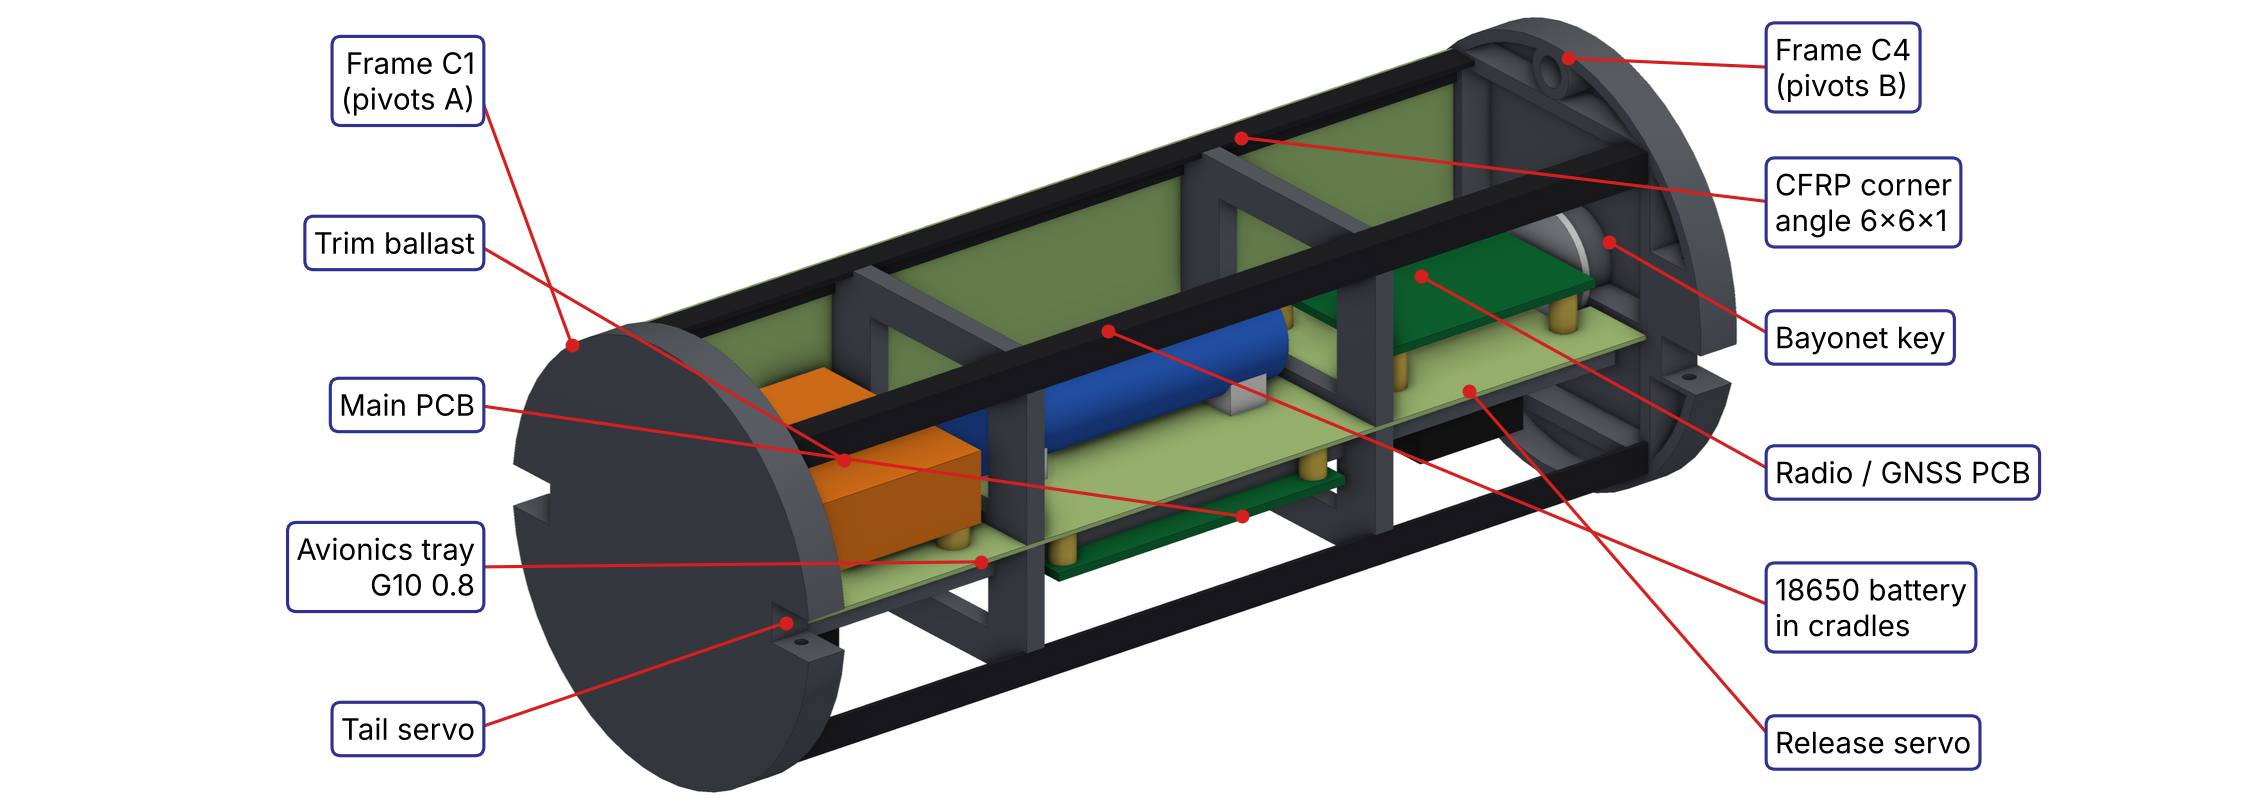
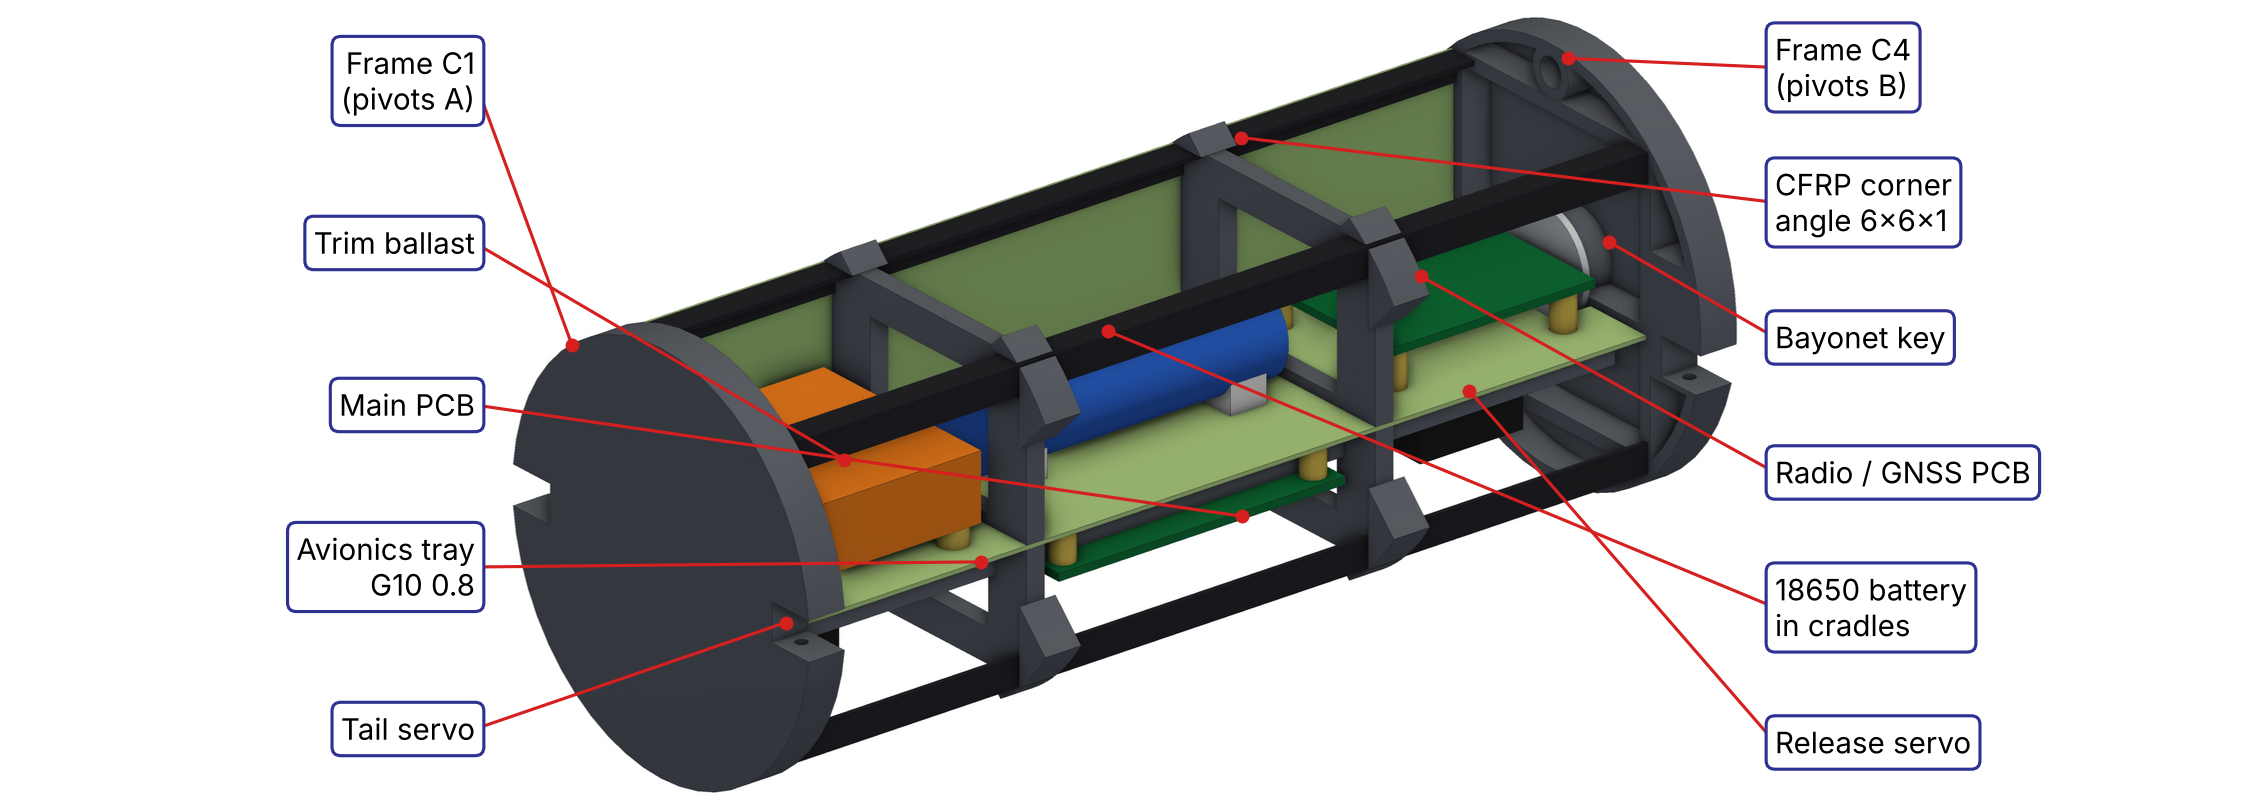
Rev C (in progress): guide pads also at the corners of C2 and C3, on PA12-CF shoes
- the pads tie the CFRP frame to the tube so both bend together (aim: lateral mode above the sander band)
- APOYO selectable by environment: standing on the sander (fixed base) or resting in the bay (flight)
- mass budget and CAD figures regenerated; still closes at 500 g (ballast 11 -> 4 g)
- verification slides prepared for both support conditions; FE results pending

Claude-Session: https://claude.ai/code/session_01Qud1Fo9tgGG4f1yKvprDxr

diff --git a/cansat_pdr/src/laminas_pdr.py b/cansat_pdr/src/laminas_pdr.py
@@ -52,7 +52,8 @@ MAS = j("masas.json")
 PAR = j("paracaidas.json")
 PL = j("planeo.json")
 AE = j("aero.json")
-R = j("resultados_fea.json")
+R = j("resultados_fea.json")                     # CanSat parado y fijo en la base (ensayo de la lijadora)
+RV = j("resultados_fea_vuelo.json") if os.path.exists(os.path.join(FEA, "resultados_fea_vuelo.json")) else None  # vuelo
 
 
 def n(x, d=1):
@@ -398,7 +399,8 @@ EN = {  # nombres en ingles de los renglones del presupuesto de masa
     "Llave de bayoneta": ("Bayonet key + bearing plate (A2-70)", "C"),
     "Arandela de la llave": ("Key washer on C4 (Al 7075, Ø22)", "C"),
     "Aislador elastomerico": ("Key elastomer isolator", "C"),
-    "Patines de C1": ("C1 guide pads (elastomer + PTFE)", "C"),
+    "Patines de C1": ("Guide pads C1–C3 (elastomer + PTFE)", "C"),
+    "Zapatas de patin": ("Pad shoes on C2 and C3 (PA12-CF)", "S"),
     "Manguito elastomerico del centrador": ("Tail centring sleeve (elastomer)", "C"),
     "Tubo d90": ("Container tube Ø90 × 242, 2 mm wall (LW-ASA)", "S"),
     "Tapa nervada": ("Ribbed container cap (PA12-CF)", "S"),
@@ -523,7 +525,7 @@ def L22_lanzamiento(sl):
         "**Tail boom:** stowed on the top cover, guided in C2–C4.",
         f"**Parachute:** packed above the cap ({P.CT_X[1] - P.CT_TOP[0] - P.CT_CAP_H:g} mm space).",
         "**Retention:** bayonet key through the cap; geometric lock (M2).",
-        "**Guidance:** C1 on four PTFE-faced pads; C4 collar centred in the cap.",
+        "**Guidance:** C1, C2 and C3 on four PTFE-faced pads each; C4 collar centred in the cap.",
         "**S7:** smooth outer wall, 1 mm radial clearance inside.",
     ], sz=11.5, spc=350)
 
@@ -734,7 +736,8 @@ def L50_mecanico(sl):
     y = Y0 + I(0.34) + 9 * I(0.305) + I(0.17)
     tarjeta(sl, x, y, X1 - x, Y1 - y, None, [
         f"**Total 500 g:** container {m_cont:.0f} g + payload {m_plan:.0f} g (including {lastre:.0f} g of trim ballast).",
-        "**Load path:** cap → bayonet key → C4 → corner angles and panels; the tube carries the CanSat to the rocket support.",
+        "**Load path:** cap → bayonet key → C4 → corner angles and panels. Laterally, pads at C1, C2 and C3 tie the "
+        "CFRP frame to the tube, so both bend as one piece.",
         "**One actuator** releases the glider; the wing opens by itself.",
     ], sz=11.5, spc=300)
 
@@ -814,8 +817,10 @@ def L54_seleccion_mec(sl):
          "S6 sets 2 mm, so density decides (80 g); withstands the 60 °C thermal test"],
         ["Bulkheads, cap", "PLA+; PETG; PA12-CF", "PA12-CF, 100 % infill", "Best stiffness and strength per gram; 150 °C"],
         ["Joints", "Screws; epoxy; both", "Epoxy + M2/M2.5 with inserts", "S8; screwed parts can be removed"],
-    ], sz=10.5, sz_cab=11, alto=I(0.5), alto_cab=I(0.36), alin=["l"] * 4, ml=80000)
-    y = Y0 + I(0.36) + 6 * I(0.5) + I(0.17)
+        ["Lateral guidance", "Pads at C1 + collar at C4; pads also at C2 and C3", "Pads at C1, C2, C3 + C4 collar",
+         "Ties the CFRP frame to the tube: lateral mode above the sander band (vibration test)"],
+    ], sz=10.5, sz_cab=11, alto=I(0.46), alto_cab=I(0.36), alin=["l"] * 4, ml=80000)
+    y = Y0 + I(0.36) + 7 * I(0.46) + I(0.17)
     tarjeta(sl, X0, y, W_UTIL, Y1 - y, None, [
         "**Why LW-ASA and not LW-PLA:** the thermal test holds the CanSat at 60 °C for 2 h; LW-PLA softens near 55 °C. "
         "Printed-material strengths are datasheet values and will be confirmed with our own coupons before CDR.",
@@ -830,9 +835,9 @@ GRUPOS = [("Contenedor: tubo", "Container tube (LW-ASA)"), ("Contenedor: tapa", 
 EJES = ("x", "y", "z")
 
 
-def peor(caso, g):
+def peor(caso, g, RR=None):
     best = None
-    blk = R.get(caso)
+    blk = (R if RR is None else RR).get(caso)
     if blk is None:
         return None
     ejes = [None] if "margenes" in blk else list(EJES)
@@ -845,8 +850,8 @@ def peor(caso, g):
     return best
 
 
-def celda(caso, g):
-    p = peor(caso, g)
+def celda(caso, g, RR=None):
+    p = peor(caso, g, RR)
     if p is None:
         return "—"
     s = ms(p[0])
@@ -859,18 +864,20 @@ def L_fem1(sl):
     fig = "fea_modos_en.png" if os.path.exists(os.path.join(FIGS, "fea_modos_en.png")) else "fea_modos.png"
     panel(sl, X0, Y0, wi, Y1 - Y0, [(fig, 1)], "First four mode shapes of the complete CanSat (cantilever from the rocket support)")
     x = X0 + wi + GAP
-    tabla(sl, x, Y0, X1 - x, [1.1, 3.0, 1.4], ["Case", "Load", "Requirement"], [
+    tabla(sl, x, Y0, X1 - x, [1.25, 3.05, 1.2], ["Case", "Load and support", "Requirement"], [
         ["CE-15", "Quasi-static 15 G, x, y, z", "S4"],
-        ["RF-15", "Sine sweep 15 G, 5–1000 Hz", "S4"],
-        ["Sander", "Orbital sander up to 233 Hz, 29 G", "Vibration test"],
+        ["Sander test", "Standing, fixed at the base: orbital sander up to 233 Hz, 29 G, start/stop", "Vibration test"],
+        ["Flight 15 G", "Sine sweep 15 G, 5–1000 Hz; resting in the bay, wall guides the top", "S4"],
         ["CH-30", "Half-sine 30 G, 1–20 ms, x, y, z", "S5, drop test"],
         ["PA-30", "Parachute snatch 30 G × 1.8", "S5, C3"],
-    ], sz=10.5, sz_cab=11, alto=I(0.36), alto_cab=I(0.34), alin=["l", "l", "l"], ml=80000)
-    y = Y0 + I(0.34) + 5 * I(0.36) + I(0.17)
+    ], sz=10.5, sz_cab=11, alto=I(0.44), alto_cab=I(0.34), alin=["l", "l", "l"], ml=80000)
+    y = Y0 + I(0.34) + 5 * I(0.44) + I(0.17)
+    fv = RV["freq"] if RV else None
     tarjeta(sl, x, y, X1 - x, Y1 - y, "Finite element model (CalculiX)", [
-        f"{R['elementos'] / 1000:.0f} k quadratic tetrahedra, {R['nodos'] / 1000:.0f} k nodes, 32 parts, {R['masa_g']:.0f} g.",
-        "Supported only at the base, as in the rocket; nothing restrains the top.",
-        f"Modes: {f[0]:.0f} Hz and {f[1]:.0f} Hz lateral (72 % of the mass each), {f[2]:.0f} Hz axial (79 %).",
+        f"{R['elementos'] / 1000:.0f} k quadratic tetrahedra, {R['nodos'] / 1000:.0f} k nodes, {R['masa_g']:.0f} g.",
+        f"Standing on the sander (fixed base): first modes {f[0]:.0f} and {f[1]:.0f} Hz, above the 233 Hz of the sander."
+        if f[0] > 240 else f"Standing on the sander (fixed base): first modes {f[0]:.0f} and {f[1]:.0f} Hz.",
+        (f"Resting in the bay (top guided by the wall): first mode {fv[0]:.0f} Hz." if fv else ""),
         "Checked: modal vs. static stress field (< 1 %), mesh, hand calculations of joints.",
     ], sz=10.5, spc=200)
 
@@ -909,15 +916,24 @@ def L_fem_mapas(sl):
     ], sz=11, spc=300)
 
 
+def casos_fem():
+    c = [("cuasi15", "CE-15", R)]
+    if "lijadora" in R:
+        c.append(("lijadora", "Sander test", R))
+    if RV is not None:
+        c.append(("armonico", "Flight 15 G", RV))
+    c += [("choque", "CH-30", R), ("paracaidas", "PA-30", R)]
+    return c
+
+
 def L_fem2(sl):
-    casos = [("cuasi15", "CE-15"), ("armonico", "RF-15")] + ([("lijadora", "Sander")] if "lijadora" in R else []) + \
-            [("choque", "CH-30"), ("paracaidas", "PA-30")]
-    filas = [[nom] + [celda(c, g) for c, _ in casos] for g, nom in GRUPOS]
+    casos = casos_fem()
+    filas = [[nom] + [celda(c, g, RR) for c, _, RR in casos] for g, nom in GRUPOS]
     nc = len(casos)
-    tabla(sl, X0, Y0, W_UTIL, [3.4] + [1.25] * nc, ["Part group (material)"] + [c for _, c in casos], filas,
+    tabla(sl, X0, Y0, W_UTIL, [3.4] + [1.25] * nc, ["Part group (material)"] + [c for _, c, _ in casos], filas,
           sz=11, sz_cab=11.5, alto=I(0.33), alto_cab=I(0.36), alin=["l"] + ["c"] * nc)
     y = Y0 + I(0.36) + len(GRUPOS) * I(0.33) + I(0.17)
-    todos = [(peor(c, g)[0], g, c) for g, _ in GRUPOS for c, _ in casos if peor(c, g)]
+    todos = [(peor(c, g, RR)[0], g, nom) for g, _ in GRUPOS for c, nom, RR in casos if peor(c, g, RR)]
     neg = [t for t in todos if t[0] < 0]
     mn = min(todos)
     w2 = (W_UTIL - GAP) // 2
@@ -927,15 +943,11 @@ def L_fem2(sl):
         "Resonant cases depend on the damping assumed: to be measured in a sine test.",
     ], sz=11, spc=250)
     nombres = dict(GRUPOS)
-    casos_n = dict(casos)
     if not neg:
-        res = [f"All margins are positive. Minimum {ms(mn[0])}: {nombres[mn[1]]}, {casos_n[mn[2]]}."]
+        res = [f"**All margins are positive.** Minimum {ms(mn[0])}: {nombres[mn[1]]}, {mn[2]}.",
+               "Rev. C: pads at C2 and C3 tie the CFRP frame to the tube, so the lateral mode moves above the sander band."]
     else:
-        tubo = [m for m, g, c in neg if g == "Contenedor: tubo"]
-        res = [f"[[{ROJO}:Open item:]] the tube fails at the {R['freq'][0]:.0f} Hz lateral mode (RF-15 and sander). "
-               "Panels and bulkheads are negative only at single-element peaks (positive at the 99.9th percentile).",
-               "Action before CDR: centre the top of the CanSat in the Ø100 bay (foam ring) or stiffen the tube; re-run."] if tubo else \
-              [f"{len(neg)} negative: " + "; ".join(f"{nombres[g]} in {casos_n[c]} ({ms(m)})" for m, g, c in neg[:3]) + "."]
+        res = [f"{len(neg)} negative: " + "; ".join(f"{nombres[g]} in {c} ({ms(m)})" for m, g, c in sorted(neg)[:3]) + "."]
     tarjeta(sl, X0 + w2 + GAP, y, w2, Y1 - y, "Result", res, sz=11, spc=250)
 
 

diff --git a/cansat_pdr/src/cad.py b/cansat_pdr/src/cad.py
@@ -147,6 +147,17 @@ def cuna_ala(x0, x1, side):
     return box(x0, x1, ya, yb, -10.0, 6.0).intersect(disc(x0, x1))
 
 
+def zapata(x0, x1, ang):
+    """Zapata de esquina (rev. C): lleva el patin de C2/C3; pegada sobre paneles, tapa y angular de la arista."""
+    sh = sector(x0, x1, P.ZAP_R0, P.R_C1, ang, P.PAD_ANG)
+    return sh.cut(envolvente_caja(x0, x1)).clean()
+
+
+def envolvente_caja(x0, x1):
+    """Caja del planeador con paneles, tapa superior y cubierta inferior (lo que no pueden invadir zapatas ni patines)."""
+    return box(x0 - 1, x1 + 1, -P.Y_OUT, P.Y_OUT, -P.Z_BOX - 0.25, P.Z_BOX + P.T_COVER)
+
+
 def guia_botalon(x0, x1):
     zt = P.Z_BOX + P.T_COVER
     g = box(x0, x1, -6.5, 6.5, zt, 45.0).intersect(disc(x0, x1))
@@ -185,6 +196,10 @@ def piezas_estructura(fe=False):
         yc = sy * P.RIEL_Y
         add(f"R{k} riel longitudinal", box(xa, xbb, yc - P.RIEL_W / 2, yc + P.RIEL_W / 2, P.Z_TRAY[0] - P.RIEL_H, P.Z_TRAY[0]),
             "PA12CF", GRIS)
+    if P.PAD_MEDIAS:
+        for k, x in ((2, P.X_C2), (3, P.X_C3)):
+            for ang in P.PAD_POS:
+                add(f"Zapata C{k} {int(ang)}", zapata(x[0] - P.ZAP_EXT, x[1] + P.ZAP_EXT, ang), "PA12CF", GRIS)
     for k, x in ((2, P.X_C2), (3, P.X_C3)):
         add(f"Guia de botalon C{k}", guia_botalon(*x), "PA12CF", GRIS)
         for s, tag in ((1, "der."), (-1, "izq.")):
@@ -365,9 +380,15 @@ def piezas_contenedor(fe=False):
 
 def piezas_patines(fe=False):
     out = []
-    for xr, tag in ((P.X_C1, "C1"),):          # rev. B: la cola se centra en la tapa (sin patines en C4)
+    estaciones = [(P.X_C1, "C1")]               # rev. B: la cola se centra en la tapa (sin patines en C4)
+    if P.PAD_MEDIAS:                            # rev. C: tambien en C2 y C3
+        estaciones += [((P.X_C2[0] - P.ZAP_EXT, P.X_C2[1] + P.ZAP_EXT), "C2"),
+                       ((P.X_C3[0] - P.ZAP_EXT, P.X_C3[1] + P.ZAP_EXT), "C3")]
+    for xr, tag in estaciones:
         for ang in P.PAD_POS:
             sh = sector(xr[0], xr[1], P.R_C1, P.CT_RI, ang, P.PAD_ANG)
+            if tag != "C1":
+                sh = sh.cut(envolvente_caja(*xr)).clean()
             mat = "PAD_A" if ang in (45.0, 225.0) else "PAD_B"
             out.append(dict(nombre=f"Patin {tag} {int(ang)}", shape=sh, mat=mat if fe else "ELAST",
                             color=(0.95, 0.95, 0.6), grupo="mecanismo", masa=sh.Volume() * 1.3e-3))

diff --git a/cansat_pdr/src/params.py b/cansat_pdr/src/params.py
@@ -12,7 +12,7 @@ import math
 EQUIPO = "Equipo CanSat Universitario Argentina"
 TEMPORADA = "2026/2027"
 PRESENTADOR = "Subsistema mecánico"
-REV = "B"
+REV = "C"
 FECHA = "19/11/2026"
 
 # -------------------------------------------------------------- envolvente
@@ -51,7 +51,12 @@ CT_LEN = CT_X[1] - CT_X[0]
 CT_MAT = "ASALW"
 # rev. B: apoyo en el cohete. El CanSat apoya en un soporte en su base, sin restriccion lateral arriba (fuselaje de 100 mm de
 # diametro interior contra 90 mm del CanSat), y en el ensayo de vibracion va fijado a la lijadora por la base: voladizo.
-APOYO = "base"
+APOYO = _os0.environ.get("APOYO", "base")      # "base": voladizo (lijadora, parado); "guia": apoyado en la bahia (vuelo)
+# rev. C: patines tambien en las esquinas de C2 y C3, sobre zapatas de PA12-CF.  Acoplan el bastidor de carbono al tubo
+# (C1, C2, C3 y C4 guiados): el conjunto flexiona como una sola pieza y el modo lateral sube por encima de la lijadora.
+PAD_MEDIAS = _os0.environ.get("PAD_MEDIAS", "1") == "1"
+ZAP_R0 = 28.0        # radio interior de las zapatas de esquina (se recortan contra la caja)
+ZAP_EXT = 2.0        # las zapatas y sus patines sobresalen 2 mm a cada lado de C2/C3 (8 mm de largo, como los de C1)
 
 # ------------------------------------------------------- planeador: estructura
 L_G = 207.0           # largo del planeador

diff --git a/cansat_pdr/src/masas.py b/cansat_pdr/src/masas.py
@@ -73,7 +73,11 @@ def main(out):
         add(V, "Arandela de la llave en C4 (Al 7075, Ø%g)" % P.ARC4_D, 1,
             sum(p["masa"] for p in lan if p["nombre"].startswith("Arandela de C4")), 0.1, "CAD", 198.0)
     add(V, "Aislador elastomerico de la llave", 1, [p["masa"] for p in lan if "Aislador" in p["nombre"]][0], 0.1, "CAD", 217.0)
-    add(V, "Patines de C1: elastomero con cara de PTFE", 4, sum(p["masa"] for p in lan if p["nombre"].startswith("Patin")), 0.1, "CAD", 4.0)
+    pats = [p for p in lan if p["nombre"].startswith("Patin")]
+    add(V, "Patines de C1, C2 y C3: elastomero con cara de PTFE" if P.PAD_MEDIAS else "Patines de C1: elastomero con cara de PTFE",
+        len(pats), sum(p["masa"] for p in pats), 0.1, "CAD", sum(p["masa"] * centro(p)[0] for p in pats) / sum(p["masa"] for p in pats))
+    if P.PAD_MEDIAS:
+        grupo(E, "Zapata", "Zapatas de patin en C2 y C3 (PA12-CF)", lan, 0.10)
     add(V, "Manguito elastomerico del centrador de cola", 1, [p["masa"] for p in lan if "Manguito del centrador" in p["nombre"]][0],
         0.1, "CAD", 209.0)
     m_plan_sin = sum(f["masa"] for f in filas)

diff --git a/cansat_pdr/src/figs_laminas.py b/cansat_pdr/src/figs_laminas.py
@@ -122,7 +122,7 @@ def lanzamiento(out, lan):
     L((209, 0, -19), (xL, T((198, 0, 0))[1]), "C4 collar + sleeve", ha="right")
     L((120, 0, -44), (xL, T((120, 0, 0))[1]), "LW-ASA tube, 2 mm", ha="right")
     L((100, 0, 31), (xR, T((110, 0, 0))[1]), "Glider frame")
-    L((4, 0, 34), (xR, T((18, 0, 0))[1]), "C1 on 4 PTFE pads")
+    L((4, 0, 34), (xR, T((18, 0, 0))[1]), "C1–C3 on PTFE pads")
     L((x0, 0, -20), (xL, T((-8, 0, 0))[1] + 2), "Open end (exit)", ha="right")
     ys = T((x0, 0, 0))[1]
     h.ax.fill_between([T((0, 0, -47))[0], T((0, 0, 47))[0]], ys - 3.2, ys - 0.4, color="0.75", lw=0)
